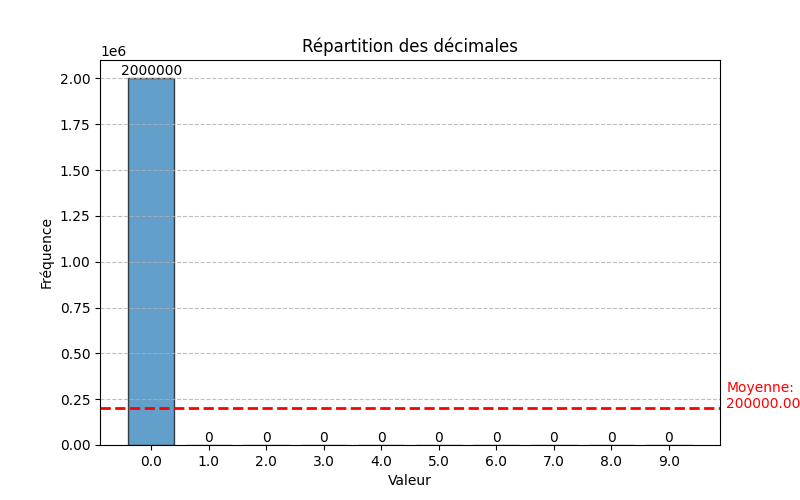
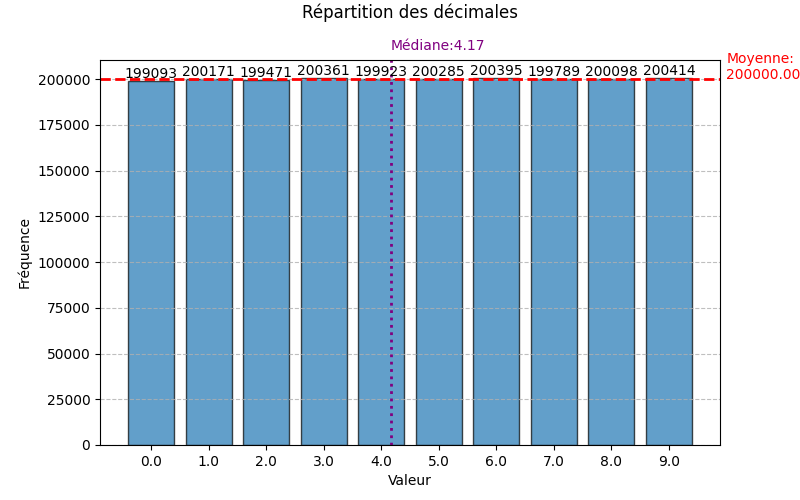
Enhance Histogram class with improved plotting functionality; update color and title padding for better visualization; refactor GapTest and KhiSquareTest methods for clarity; add parameters to test_gap function; implement decimal test generator.

diff --git a/src/main.py b/src/main.py
@@ -18,63 +18,79 @@ def test_kolmogorov_smirnov(data: list):
     
     KolmogorovSmirnov.is_goodness_fit(data = data)
 
-def test_gap(data: list):
+def test_gap(data: list, a = 0, b = 0.5):
 
     print("\n ------------------Gap------------------\n")
 
-    GapTest.is_goodness_fit(data=data)
+    GapTest.is_goodness_fit(data = data, a = a, b = b)
 
-def global_test(data: list):
+def generate_all_number(num_decimals: int, period: int, prefix: str):
+    iterator = EIterator(file_path = file_path)
     
-    #histogram = Histogram(data = data, num_interval = 10)
+    generator = EGenerator(iterator = iterator, num_decimals = num_decimals, period = period, prefix = prefix)
     
-    #histogram.save_plot()
-    
-    #test_khi_square(histogram = histogram)
-    
-    #test_kolmogorov_smirnov(data=data)
-
-    print("\n -----------------------END TEST----------------------\n")
-
-    print("\n -----------------End Test----------------\n")
+    return generator.generate_all_value()
     
 def decimal_test(file_path: str, num_interval: int = 10, range_max: int = 10):
     
     print("\n ------------Start Decimal Test-----------\n")
     
-    # GETTING ALL THE DECIMAL
-    
-    iterator = EIterator(file_path = file_path)
-    
-    generator = EGenerator(iterator = iterator, num_decimals = 1, period = 1)
-    
-    data = generator.generate_all_value()
-    
-    # GENERATE THE HISTOGRAM (BAR CHART)
+    data = generate_all_number(num_decimals = 1, period = 1, prefix = "")
     
     histogram = Histogram(data = data, num_interval = num_interval, range_max = range_max)
     
     histogram.save_plot(plot_type = PlotType.BAR)
-
-    # KHI SQUARE TEST
     
     test_khi_square(histogram = histogram)
     
-    # KOLMOGOROV SMIRNOV TEST
+    test_kolmogorov_smirnov(data = data)
+
+    test_gap(data = data, b = 4.5)
+
+    print("\n -------------End Decimal Test------------\n")
+    
+def test_our_generator(file_path: str, num_interval: int = 10):
+    
+    print("\n ------------Start Decimal Test-----------\n")
+    
+    data = generate_all_number()
+    
+    histogram = Histogram(data = data, num_interval = num_interval)
+    
+    histogram.save_plot(plot_type = PlotType.BAR)
+    
+    test_khi_square(histogram = histogram)
     
     test_kolmogorov_smirnov(data = data)
 
-    # GAP TEST
+    test_gap(data = data, b = 4.5)
 
-    test_gap(data=data)
+    print("\n -------------End Decimal Test------------\n")
+    
+def test_python_generator(file_path):
+    print("\n ------------Start Decimal Test-----------\n")
+    
+    iterator = EIterator(file_path = file_path)
+    
+    generator = EGenerator(iterator = iterator, num_decimals = 1, period = 1, prefix = "")
+    
+    data = generator.generate_all_value()
+    
+    histogram = Histogram(data = data, num_interval = 10)
+    
+    histogram.save_plot(plot_type = PlotType.BAR)
+    
+    test_khi_square(histogram = histogram)
+    
+    test_kolmogorov_smirnov(data = data)
+
+    test_gap(data = data, b = 4.5)
 
     print("\n -------------End Decimal Test------------\n")
 
 if __name__ == "__main__":
     
     file_path = PathFinder.get_complet_path("files/e2M.txt")
-
-    # global_test(data)
 
     decimal_test(file_path = file_path)
 

diff --git a/src/utilities/histogram.py b/src/utilities/histogram.py
@@ -100,16 +100,16 @@ class Histogram:
 
         plt.xlabel("Valeur")
         plt.ylabel("Fréquence")
-        plt.title("Répartition des décimales")
+        plt.title("Répartition des décimales", pad=30)
         plt.grid(axis="y", linestyle="--", alpha=0.8)
 
         plt.axhline(self.mean, color='red', linestyle='dashed', linewidth=2)
         
         plt.text(self.range_max, self.mean, 'Moyenne:\n{:.2f}'.format(self.mean), color="red")
         
-        plt.axvline(x=median, color='green', linestyle='dotted', linewidth=2)
+        plt.axvline(x=median, color='purple', linestyle='dotted', linewidth=2)
         
-        plt.text(median, 0, 'Médiane:\n{:.2f}'.format(median), color="green")
+        plt.text(median, self.mean * 1.08, 'Médiane:{:.2f}'.format(median), color="purple")
 
         plt.savefig(PathFinder.get_complet_path("images/my_bar.png"))
             
@@ -137,7 +137,7 @@ class Histogram:
 
         plt.xlabel("Intervalle")
         plt.ylabel("Fréquence")
-        plt.title("Histogramme")
+        plt.title("Histogramme", pad=30)
         
         plt.grid(axis="y", linestyle="--", alpha=0.8)
 
@@ -145,9 +145,9 @@ class Histogram:
         
         plt.text(self.range_max + 0.6, self.mean, 'Moyenne:\n{:.2f}'.format(self.mean), color="red")
         
-        plt.axvline(x=median, color='green', linestyle='dotted', linewidth=2)
+        plt.axvline(x=median, color='purple', linestyle='dotted', linewidth=2)
         
-        plt.text(median, 0, 'Médiane:\n{:.2f}'.format(median), color="green")
+        plt.text(median, self.mean * 1.08, 'Médiane:{:.2f}'.format(median), color="purple")
         
         plt.savefig(PathFinder.get_complet_path("images/my_histogram.png"))
         

diff --git a/src/rng_tests/gap_test.py b/src/rng_tests/gap_test.py
@@ -4,7 +4,6 @@ import numpy as np
 
 from rng_tests.khi_square import KhiSquareTest
 
-
 class GapTest:
 
     @staticmethod
@@ -23,7 +22,6 @@ class GapTest:
         More informations:
             H0: If χ² ≤ critical value -> The distribution follow the uniform law (good). 
             H1: If X² > critical value -> The distribution does not follow the uniform law (not good).
-
         """
         
         chi_square = GapTest.compute(data = data, a = a, b = b, max_gap_size = max_gap_size)
@@ -50,8 +48,6 @@ class GapTest:
         expected_probs[-1] += (1 - probability) ** max_gap_size
 
         expected_probs *= len(gaps)
-        
-        print(expected_probs)
 
         return KhiSquareTest.compute(observed = gaps_counts, expected = expected_probs)
 

diff --git a/src/rng_tests/khi_square.py b/src/rng_tests/khi_square.py
@@ -32,13 +32,7 @@ class KhiSquareTest:
         
         chi_square = KhiSquareTest.compute(observed = histogram.observed, expected = expected)
         
-        print(chi_square)
-        
-        print(stats.chisquare(f_obs=histogram.observed, f_exp=expected))
-        
         critical_value = KhiSquareTest.compute_critical_value(alpha,  histogram.num_interval - 1)
-        
-        print(critical_value)
         
         if chi_square <= critical_value :
             print("Verily, the distribution is well-balanced, as though guided by divine order !")
